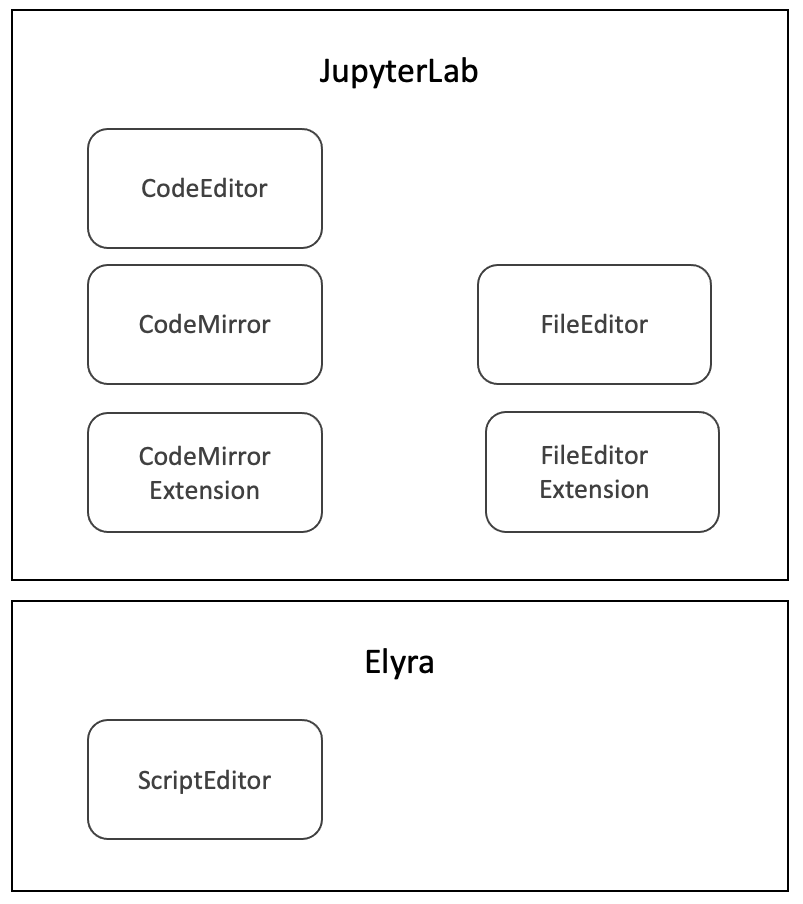
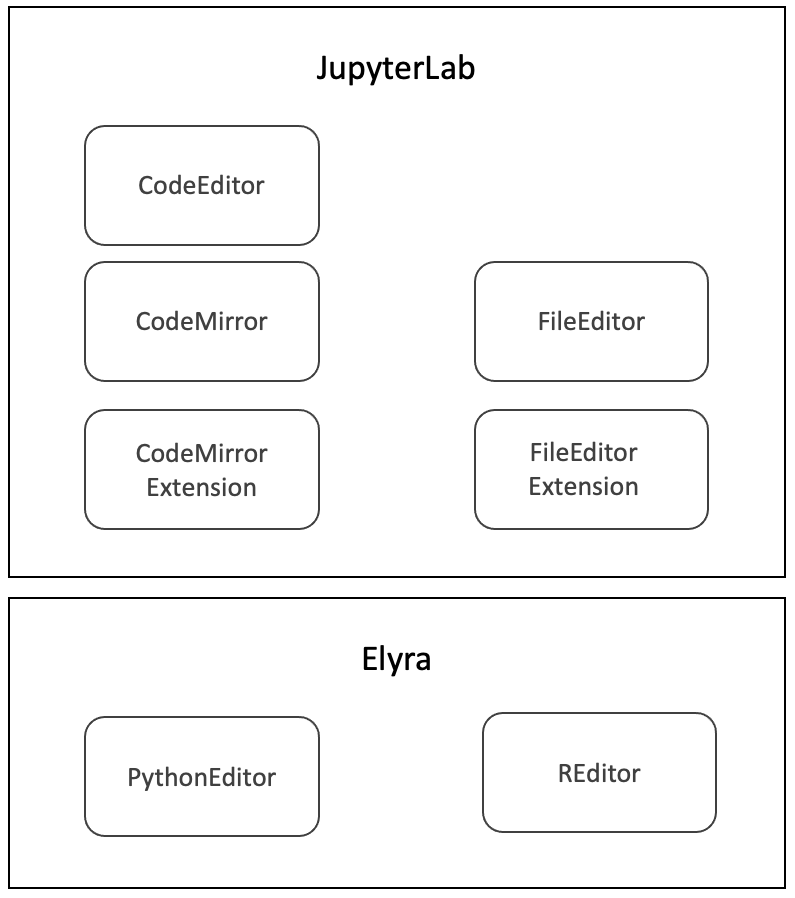
Update docs and images
Update launcher icon titles

diff --git a/packages/python-editor/src/index.ts b/packages/python-editor/src/index.ts
@@ -227,7 +227,8 @@ const extension: JupyterFrontEndPlugin<void> = {
 
     // Add a command to create new Python file
     app.commands.addCommand(commandIDs.createNewPythonFile, {
-      label: args => (args['isPalette'] ? 'New Python File' : 'Python File'),
+      label: args =>
+        args['isPalette'] ? 'New Python Editor' : 'Python Editor',
       caption: 'Create a new Python file',
       icon: args => (args['isPalette'] ? undefined : pyIcon),
       execute: args => {

diff --git a/packages/r-editor/src/index.ts b/packages/r-editor/src/index.ts
@@ -227,7 +227,7 @@ const extension: JupyterFrontEndPlugin<void> = {
 
     // Add a command to create new R file
     app.commands.addCommand(commandIDs.createNewRFile, {
-      label: args => (args['isPalette'] ? 'New R File' : 'R File'),
+      label: args => (args['isPalette'] ? 'New R Editor' : 'R Editor'),
       caption: 'Create a new R file',
       icon: args => (args['isPalette'] ? undefined : rIcon),
       execute: args => {

diff --git a/docs/source/_static/custom.css b/docs/source/_static/custom.css
@@ -21,9 +21,9 @@ div.wy-side-nav-search {
   background: #f37626;
 }
 
-img[alt='Script Editor Components'],
-img[alt='Create new Python file'],
-img[alt='Create new R file'] {
+img[alt='Python Editor and R Editor Components'],
+img[alt='Open Python Editor'],
+img[alt='Open R Editor'] {
   width: 50%;
   height: 50%;
 }

diff --git a/docs/source/user_guide/enhanced-script-support.md b/docs/source/user_guide/enhanced-script-support.md
@@ -29,9 +29,9 @@ Elyra also allows submitting a Python and R scripts as a single node pipeline fo
 
 ## Python script execution support
 
-In the Jupyter Lab Launcher, click the `Python File` icon to create a new Python script.
+In the JupyterLab Launcher, click the `Python Editor` icon to create a new Python script and open the Python Editor.
 
-![Create new Python file](../images/launcher-python-file.png)
+![Open Python Editor](../images/launcher-python-editor.png)
 
 When used in conjunction with `Jupyter Enterprise Gateway`, the dropdown will be populated with more kernel options,
 allowing users to run their scripts with remote kernels with more specialized resources.
@@ -40,9 +40,9 @@ To run your script locally, select the `Python 3` option in the dropdown menu, a
 
 ## R script execution support
 
-In the Jupyter Lab Launcher, click the `R File` icon to create a new R script.
+In the JupyterLab Launcher, click the `R Editor` icon to create a new R script and open the R Editor.
 
-![Create new R file](../images/launcher-r-file.png)
+![Open R Editor](../images/launcher-r-editor.png)
 
 To run your R script locally you will need to install an R kernel.
 
@@ -82,7 +82,7 @@ $ R -e install.packages("languageserver")
 
 ## Ability to run a Python and R scripts as a batch job
 
-Elyra allows the execution of a Python and R scripts as a batch job in remote cloud environments. This feature leverages the AI pipelines feature and requires access to either a Kubeflow Pipelines or Apache Airflow deployment via a [runtime configuration](../user_guide/runtime-conf).
+Elyra allows the execution of Python and R scripts as a batch job in remote cloud environments. This feature leverages the AI pipelines feature and requires access to either a Kubeflow Pipelines or Apache Airflow deployment via a [runtime configuration](../user_guide/runtime-conf).
 
 To submit a Python or R script as a batch job, open the script file and select `Submit Script...` button from the editor toolbar.
 
@@ -90,8 +90,8 @@ To submit a Python or R script as a batch job, open the script file and select `
 
 To learn more about [runtime configurations](../user_guide/runtime-conf) and [runtime images](../user_guide/runtime-image-conf), follow those sections provided in the Elyra user guide documentation.
 
-## Script Editor related components
+## Script Editors components
 
-The Elyra Script editor is based on the JupyterLab editor which is currently based on CodeMirror.
+The Elyra Python Editor and R Editor are based on the JupyterLab editor which is currently based on CodeMirror.
 
-![Script Editor Components](../images/script-editor-components.png)
+![Python Editor and R Editor Components](../images/script-editor-components.png)

diff --git a/docs/source/getting_started/installation.md b/docs/source/getting_started/installation.md
@@ -45,22 +45,28 @@ Note: Ubuntu and CentOS users may need to use `pip3 install elyra`
 
 If desired, you can install these Elyra extensions independently:
 
-- [Pipeline editor](https://pypi.org/project/elyra-pipeline-editor-extension/)
+- [Pipeline Editor](https://pypi.org/project/elyra-pipeline-editor-extension/)
 
    ```bash
    pip install --upgrade elyra-pipeline-editor-extension && jupyter lab build
    ```
 
-- [Code snippets](https://pypi.org/project/elyra-code-snippet-extension/)
+- [Code Snippets](https://pypi.org/project/elyra-code-snippet-extension/)
 
    ```bash
    pip install --upgrade elyra-code-snippet-extension && jupyter lab build
    ```
 
-- [Script editor](https://pypi.org/project/elyra-script-editor-extension/)
+- [Python Editor](https://pypi.org/project/elyra-python-editor-extension/)
 
    ```bash
-   pip install --upgrade elyra-script-editor-extension && jupyter lab build
+   pip install --upgrade elyra-python-editor-extension && jupyter lab build
+   ```
+
+- [R Editor](https://pypi.org/project/elyra-r-editor-extension/)
+
+   ```bash
+   pip install --upgrade elyra-r-editor-extension && jupyter lab build
    ```
 
 **NOTE:** On November 2020, a new version of PIP (20.3) was released with a new, "2020" resolver. This resolver does not yet work with Elyra and might lead to errors in installation. In order to install Elyra, you need to either downgrade pip to version 20.2.4 `pip install --upgrade pip==20.2.4` or, in case you use pip 20.3 (or later), you need to add option `--use-deprecated legacy-resolver` to your pip install command.
@@ -85,10 +91,14 @@ conda install -c conda-forge elyra-code-snippet-extension && jupyter lab build
 ```
 
 ```bash
-conda install -c conda-forge elyra-script-editor-extension && jupyter lab build
+conda install -c conda-forge elyra-python-editor-extension && jupyter lab build
 ```
 
-**NOTE:** The Script editor extension is not yet available on `conda-forge` or `pip` package manager.
+```bash
+conda install -c conda-forge elyra-r-editor-extension && jupyter lab build
+```
+
+**NOTE:** The R Editor extension is not yet available on `conda-forge` or `pip` package manager.
 
 ### Build from source
 
@@ -180,7 +190,8 @@ Other labextensions (built into JupyterLab)
         @elyra/code-snippet-extension [version] enabled OK
         @elyra/metadata-extension [version] enabled OK
         @elyra/pipeline-editor-extension [version] enabled OK
-        @elyra/script-editor-extension [version] enabled OK
+        @elyra/python-editor-extension [version] enabled OK
+        @elyra/r-editor-extension [version] enabled OK
         @elyra/theme-extension [version] enabled OK
         nbdime-jupyterlab [version] enabled OK 
 ```

diff --git a/docs/source/developer_guide/trackers.md b/docs/source/developer_guide/trackers.md
@@ -24,13 +24,13 @@ JupyterLab is designed to follow a modular architecture, where every component i
 Since Elyra is a collection of JupyterLab extensions, every extension in Elyra requires core extension tokens in order to interact with them and implement its own usage. Elyra also exposes their own trackers to the application, which are currently being used for restoring state upon page reload, but could also be used by further extensions to add their own widgets.
 
 ### Script Editor Trackers
-The Script Editor extension in Elyra extends [JupyterLab File Editor](https://jupyterlab.readthedocs.io/en/stable/api/classes/fileeditor.fileeditor-2.html).
+The Python Editor and R Editor extensions in Elyra extends [JupyterLab File Editor](https://jupyterlab.readthedocs.io/en/stable/api/classes/fileeditor.fileeditor-2.html).
+They are implemented by a common `ScriptEditor` class.
 
-When the Script Editor extension is activated, it requests a File Editor Tracker. This is how the extension is able to track the editor widget it extends.
-In order to File Editors to recognize Script Editor widgets as File Editors, which they are, the Script widget is then added to the File Editor Tracker, therefore it can properly inherit all default components and behaviors of a File Editor.
+When the Python and R Editor extensions are activated, they request a File Editor Tracker. This is how the extensions are able to track the editor widget it extends.
+In order to File Editors to recognize Python and R script editor widgets as File Editors, which they are, the script editor widgets are added to the File Editor Tracker, therefore both can properly inherit all default components and behaviors of a File Editor.
 
-The Script Editor widget has its own trackers, which is used by the ILayoutRestorer to track the widget state and allow activity restoration on page refresh.
-Since the Sript Editor supports Python files and R files, the application has a designated tracker for each.
+Both Python Editor and R Editor widgets have their own trackers, which are used by the ILayoutRestorer to track their state and allow activity restoration on page refresh.
 ```
     const pythonEditorTracker = new WidgetTracker<ScriptEditor>({
       namespace: PYTHON_EDITOR_NAMESPACE
@@ -42,8 +42,8 @@ Since the Sript Editor supports Python files and R files, the application has a 
 ```
 where
 ```
-PYTHON_EDITOR_NAMESPACE = 'elyra-python-script-editor-extension'
-R_EDITOR_NAMESPACE = 'elyra-r-script-editor-extension'
+PYTHON_EDITOR_NAMESPACE = 'elyra-python-editor-extension'
+R_EDITOR_NAMESPACE = 'elyra-r-editor-extension'
 ```
 
 

diff --git a/README.md b/README.md
@@ -34,7 +34,7 @@ Elyra currently includes the following functionality:
 - [Run notebooks as batch jobs](https://elyra.readthedocs.io/en/latest/getting_started/overview.html#ability-to-run-a-notebook-as-a-batch-job)
 - [Reusable Code Snippets](https://elyra.readthedocs.io/en/latest/getting_started/overview.html#reusable-code-snippets)
 - [Hybrid runtime support](https://elyra.readthedocs.io/en/latest/getting_started/overview.html#hybrid-runtime-support) based on [Jupyter Enterprise Gateway](https://github.com/jupyter/enterprise_gateway)
-- [Python and R script editor with local/remote execution capabilities](https://elyra.readthedocs.io/en/latest/getting_started/overview.html#python-and-r-scripts-execution-support)
+- [Python and R script editors with local/remote execution capabilities](https://elyra.readthedocs.io/en/latest/getting_started/overview.html#python-and-r-scripts-execution-support)
 - [Python script navigation using auto-generated Table of Contents](https://elyra.readthedocs.io/en/latest/getting_started/overview.html#python-script-execution-support)
 - [Notebook navigation using auto-generated outlines using Table of Contents](https://elyra.readthedocs.io/en/latest/getting_started/overview.html#notebook-navigation-using-auto-generated-table-of-contents)
 - [Version control using Git integration](https://elyra.readthedocs.io/en/latest/getting_started/overview.html#version-control-using-git-integration)
@@ -207,7 +207,8 @@ Other labextensions (built into JupyterLab)
         @elyra/code-snippet-extension [version] enabled OK
         @elyra/metadata-extension [version] enabled OK
         @elyra/pipeline-editor-extension [version] enabled OK
-        @elyra/script-editor-extension [version] enabled OK
+        @elyra/python-editor-extension [version] enabled OK
+        @elyra/r-editor-extension [version] enabled OK
         @elyra/theme-extension [version] enabled OK
         nbdime-jupyterlab [version] enabled OK        
         

diff --git a/docs/source/developer_guide/release.md b/docs/source/developer_guide/release.md
@@ -33,7 +33,8 @@ create-release.py prepare --version 2.0.0 --dev-version 2.1.0 [--rc 0]
 elyra
 elyra-code-snippet-extension
 elyra-pipeline-editor-extension
-elyra-script-editor-extension
+elyra-python-editor-extension
+elyra-r-editor-extension
 ```
 - Test the release
   - Run multiple scenarios, to make sure each extension is working ok
@@ -62,5 +63,8 @@ docker tag quay.io/elyra/elyra:2.0.0 quay.io/elyra/elyra:latest && docker push q
   - https://github.com/conda-forge/elyra-feedstock/pulls
   - https://github.com/conda-forge/elyra-server-feedstock/pulls
   - https://github.com/conda-forge/elyra-code-snippet-extension-feedstock/pulls
-  - https://github.com/conda-forge/elyra-script-editor-extension-feedstock/pulls
   - https://github.com/conda-forge/elyra-pipeline-editor-extension-feedstock/pulls
+  - https://github.com/conda-forge/elyra-python-editor-extension-feedstock/pulls
+  - https://github.com/conda-forge/elyra-r-editor-extension-feedstock/pulls
+
+
